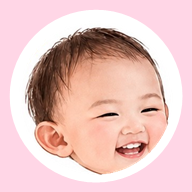
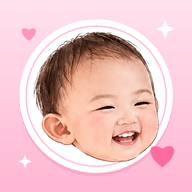
로미 아이콘 새로: 스티커 그림의 웃는 얼굴로 잘림 없이, 핑크 바탕·하트 장식
- 홈 화면 아이콘(192·512·maskable), 아이폰 아이콘, favicon, 상단 로미 얼굴 교체
- 서비스 워커 캐시 버전 올림(romdays-v2) — 예전 아이콘 저장본 비우기

diff --git a/sw.js b/sw.js
@@ -2,7 +2,7 @@
 // - 화면(index.html): 인터넷이 되면 항상 새로 받고(최신 유지), 안 되면 저장해 둔 것을 보여 준다.
 // - 글꼴·그림: 한 번 받으면 저장해 두고 쓴다.
 // - /api (가족 일정·가계부·자산): 개인 정보라 절대 저장하지 않는다.
-const VERSION = "romdays-v1";
+const VERSION = "romdays-v2";
 const SHELL = ["/", "/manifest.webmanifest", "/img/romi-face.png", "/img/icon-192.png", "/img/favicon.png"];
 
 self.addEventListener("install", e => {
